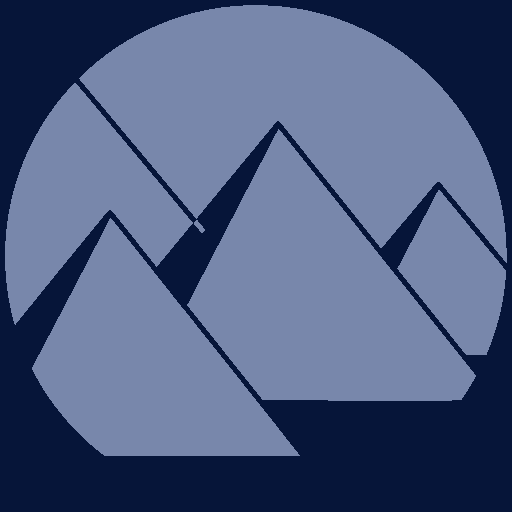
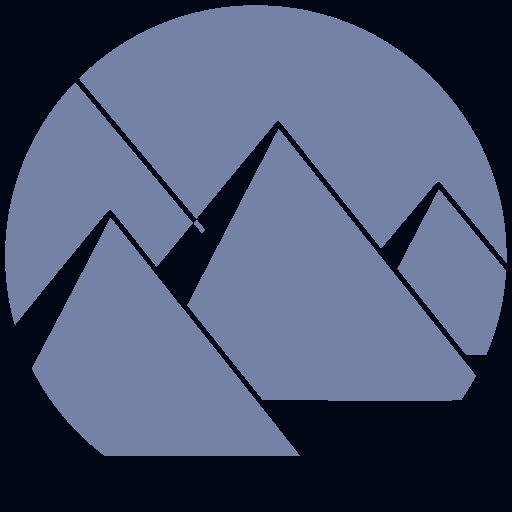
Add links, correct colors
The contrast between colors made everything hard to read.  Proper links
were also added.

diff --git a/frontend/portfolio/public/css/style.css b/frontend/portfolio/public/css/style.css
@@ -4,66 +4,68 @@
 */
 
 html {
-  font-size: 10px;
-  font-family: 'Josefin Sans',sans-serif;
-  color: black;
-  background: #ffffff;
-  border: 0px;
-  margin: 0px;
-  padding: 0px;
+  font-size:    10px;
+  font-family:  'Josefin Sans',sans-serif;
+  color:        black;
+  background:   #ffffff;
+  border:       0px;
+  margin:       0px;
+  padding:      0px;
 }
 
 body {
-  font-size: 2rem;
-  margin: auto;
+  font-size:  2rem;
+  margin:     auto;
 }
 
 h1 {
-  font-weight: bold;
-  font-size: 3.5rem;
-  margin-bottom: 0px;
+  font-weight:    bold;
+  font-size:      3.5rem;
+  margin-bottom:  0px;
 }
 
 h2 {
-  font-weight: normal;
-  font-size: 2.5rem;
-  margin-bottom: 0px;
+  font-weight:    normal;
+  font-size:      2.5rem;
+  margin-bottom:  0px;
 }
 
 h3 {
-  font-weight: bold;
-  font-size: 2rem;
-  margin-bottom: 0px;
+  font-weight:    bold;
+  font-size:      2rem;
+  margin-bottom:  0px;
 }
 
 main {
-  border: 0px solid black;
-  padding: 10px;
-  max-width: 1024px;
+  border:     0px solid black;
+  padding:    10px;
+  max-width:  1024px;
 }
 
 section {
-  font-family: 'Lato',serif;
-  border: 0px solid black;
-  min-height: 100vh;
-  box-shadow: 0px 0px 0px black;
+  font-family:  'Lato',serif;
+  border:       0px solid black;
+  min-height:   100vh;
+  box-shadow:   0px 0px 0px black;
 }
 
 section h2 {
-  text-align: center;
+  text-align:  center;
 }
 
 section p {
-  padding: 16px;
-  text-align: justify;
+  padding:     16px;
+  text-align:  justify;
 }
 
 header {
   display:         block;
   width:           100%;
   height:          64px;
-  background:      #061539;
-  color:           #7887ab;
+  /* background:   #061539; */
+  /* color:        #7887ab; */
+  background:      #0c1c45;
+  color:           #bec6da;
   margin:          0px;
   padding-top:     32px;
   padding-bottom:  32px;
@@ -73,14 +75,14 @@ header hr {
   width:          256px;
   height:         1px;
   border:         0;
-  background:     #4f628e;
+  background:     #7482a6;
   margin-top:     16px;
   margin-bottom:  16px;
 }
 
 header a:hover {
-  color:           #d4b16a;
-  text-decoration: none;
+  color:            #455787;
+  text-decoration:  none;
 }
 
 header a {
@@ -109,35 +111,37 @@ header #name, #subtitle, #menu {
 }
 
 nav {
-  position: fixed;
-  bottom: 0px;
-  width: 100vw;
+  position:  fixed;
+  bottom:    0px;
+  width:     100vw;
 }
 
 nav ul {
-  list-style-type: none;
-  background: #7887ab;
-  text-align: center;
-  width: 100%;
-  margin: 0px;
-  padding: 0px;
-  border-top: 2px solid #061539;
+  list-style-type:  none;
+  background:       #010715;
+  color:            #7482a6;
+  background:       #7482a6;
+  text-align:       center;
+  width:            100%;
+  margin:           0px;
+  padding:          0px;
+  border-top:       2px solid #061539;
 }
 
 nav ul li {
-  display: inline-block;
-  width: 25%;
-  height:100%;
+  display:  inline-block;
+  width:    25%;
+  height:   100%;
 }
 
 nav li > div {
-  border: 1px solid black;
-  padding: 16px;
+  border:   1px solid black;
+  padding:  16px;
 }
 
 nav a {
-  text-decoration: none;
-  color: #061539;
+  text-decoration:  none;
+  color:            #010715;
 }
 
 nav i {
@@ -145,34 +149,34 @@ nav i {
 }
 
 nav a:hover {
-  text-decoration: none;
-  color: #d4b16a;
+  text-decoration:  none;
+  color:            #d4b16a;
 }
 
 footer {
-  background:   #061539;
-  color:        #7887ab;
-  font-size:    1.5rem;
-  font-weight:  normal;
-  margin-bottom: 96px;
-  padding:      16px 0px 16px 0px;
-  width:        100%;
-  text-align: center;
+  background:     #0c1c45;
+  color:          #bec6da;
+  font-size:      1.5rem;
+  font-weight:    normal;
+  margin-bottom:  96px;
+  padding:        16px 0px 16px 0px;
+  width:          100%;
+  text-align:     center;
 }
 
 footer div {
-  display: block;
-  margin: 16px;
+  display:  block;
+  margin:   16px;
 }
 
 footer a {
-  color: inherit;
-  text-decoration: none;
+  color:            inherit;
+  text-decoration:  none;
 }
 
 footer a:hover {
-  color: #d4b16a;
-  text-decoration: none;
+  color:            #d4b16a;
+  text-decoration:  none;
 }
 
 footer #social {
@@ -180,21 +184,21 @@ footer #social {
 }
 
 footer #social a {
-  color: #061539;
-  background: #7887ab;
-  text-decoration: none;
-  font-weight: bold;
-  margin: 4px;
-  padding: 4px 4px 2px 4px;
-  border: 1px solid #7887ab;
-  border-radius: 2px;
+  color:            #0c1c45;
+  background:       #bec6da;
+  text-decoration:  none;
+  font-weight:      bold;
+  margin:           4px;
+  padding:          4px 4px 2px 4px;
+  border:           1px solid #7887ab;
+  border-radius:    2px;
 }
 
 footer #social a:hover {
-  color: #7887ab;
-  background: #061539;
-  font-weight: normal;
-  border: 1px solid #7887ab;
+  background:   #0c1c45;
+  color:        #bec6da;
+  font-weight:  normal;
+  border:       1px solid #7887ab;
 }
 
 /**
@@ -245,20 +249,20 @@ footer #social a:hover {
   }
 
   header #menu {
-    display: inherit;
-    margin-top: 32px;
+    display:     inherit;
+    margin-top:  32px;
   }
 
   footer {
-    background:   #061539;
-    color:        #7887ab;
-    font-size:    1.5rem;
-    font-weight:  normal;
-    padding:      16px 16px 16px 16px;
-    width:        calc(100% - 352px);
-    margin-left:  320px;
-    margin-bottom: 0px;
-    text-align: center;
+    /* background:  #061539; */
+    /* color:       #7887ab; */
+    font-size:      1.5rem;
+    font-weight:    normal;
+    padding:        16px 16px 16px 16px;
+    width:          calc(100% - 352px);
+    margin-left:    320px;
+    margin-bottom:  0px;
+    text-align:     center;
   }
 
   footer #social {

diff --git a/frontend/portfolio/public/index.html b/frontend/portfolio/public/index.html
@@ -39,7 +39,7 @@
       <hr>
       <h3><a href="#contact"  >CONTACT  </a></h3>
       <hr>
-      <h3><a href="#blog"     >BLOG     </a></h3>
+      <h3><a href="http://stonetelescope.wordpress.com">BLOG     </a></h3>
     </div>
   </header>
 
@@ -49,7 +49,7 @@
         <div>
           <a href="#about">
             <i class="fa fa-home fa-lg"></i>
-            <div class="nav-title">about</div>
+            <div>about</div>
           </a>
         </div>
       </li><!-- need these flourishes to remove spacing !!
@@ -57,7 +57,7 @@
         <div>
           <a href="#portfolio">
             <i class="fa fa-cubes fa-lg"></i>
-            <div class="nav-title">work</div>
+            <div>work</div>
           </a>
         </div>
       </li><!--
@@ -65,15 +65,15 @@
         <div>
           <a href="#contact">
             <i class="fa fa-envelope fa-lg"></i>
-            <div class="nav-title">contact</div>
+            <div>contact</div>
           </a>
         </div>
       </li><!--
       --><li>
         <div>
-          <a href="#blog">
+          <a href="http://stonetelescope.wordpress.com">
             <i class="fa fa-wordpress fa-lg"></i>
-            <div class="nav-title">blog</div>
+            <div>blog</div>
           </a>
         </div>
       </li>

diff --git a/frontend/portfolio/public/css/colorscheme.css b/frontend/portfolio/public/css/colorscheme.css
@@ -39,3 +39,35 @@
 
 /* Generated by Paletton.com Â© 2002-2014 */
 /* http://paletton.com */
+
+
+
+/* CSS - Cascading Style Sheet */
+/* Palette color codes */
+/* Palette URL: http://paletton.com/#uid=13M0u0klolj4IMVd4tDtIcZN54E */
+
+/* Feel free to copy&paste color codes to your application */
+
+
+/* As hex codes */
+
+.color-primary-0 { color: #2E4172 }	/* Main Primary color */
+.color-primary-1 { color: #BEC6DA }
+.color-primary-2 { color: #65759F }
+.color-primary-3 { color: #0C1C45 }
+.color-primary-4 { color: #010819 }
+
+
+
+/* As RGBa codes */
+
+.rgba-primary-0 { color: rgba( 46, 65,114,1) }	/* Main Primary color */
+.rgba-primary-1 { color: rgba(190,198,218,1) }
+.rgba-primary-2 { color: rgba(101,117,159,1) }
+.rgba-primary-3 { color: rgba( 12, 28, 69,1) }
+.rgba-primary-4 { color: rgba(  1,  8, 25,1) }
+
+
+
+/* Generated by Paletton.com Â© 2002-2014 */
+/* http://paletton.com */
